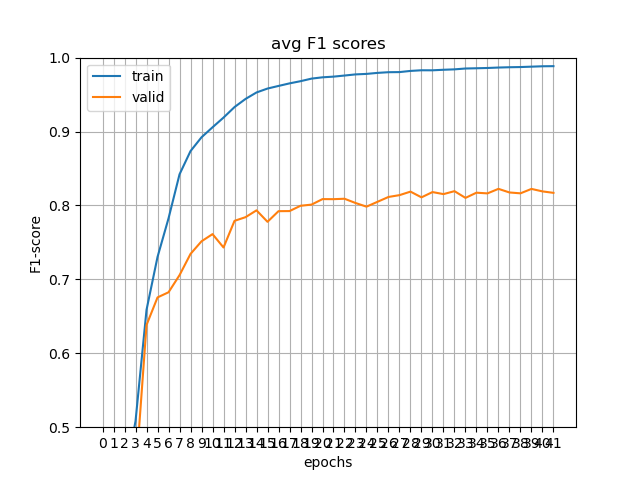
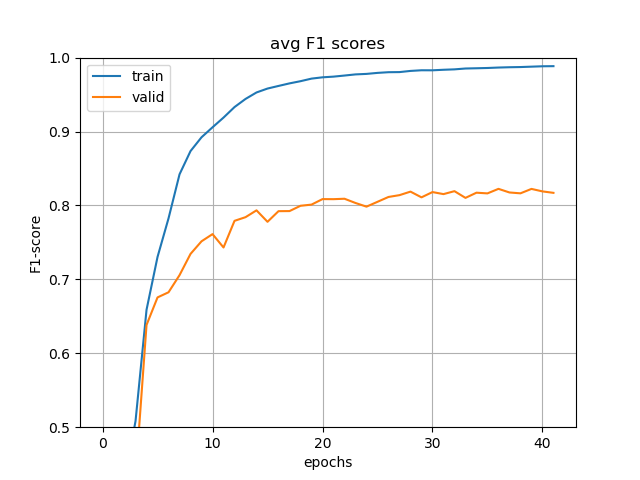
fix xticks in plots and update f1-score course plots

Changed region(s): [[0.1562, 0.9062, 0.875, 0.9375], [0.4375, 0.0625, 0.5938, 0.125]]

diff --git a/base/evaluation/result_logger.py b/base/evaluation/result_logger.py
@@ -31,7 +31,6 @@ class ResultLogger:
         t = np.arange(len(f1_scores['train']['avg']))
         for ds in f1_scores:
             plt.plot(t, f1_scores[ds]['avg'], label=ds)
-        plt.xticks(t)
         plt.xlabel('epochs')
         plt.ylabel('F1-score')
         plt.ylim((0.5, 1))
@@ -45,7 +44,6 @@ class ResultLogger:
         for stage in f1_scores['valid']:
             plt.plot(t, f1_scores['valid'][stage], label=stage)
         plt.legend()
-        plt.xticks(t)
         plt.xlabel('epochs')
         plt.ylabel('F1-score')
         plt.ylim((0.0, 1))
@@ -161,7 +159,6 @@ class ResultLogger:
         t = np.arange(len(metrics['loss']['train']))
         for ds in metrics['loss']:
             plt.plot(t, metrics['loss'][ds], label=ds)
-        plt.xticks(t)
         plt.xlabel('epochs')
         plt.ylabel('loss')
         plt.grid()
